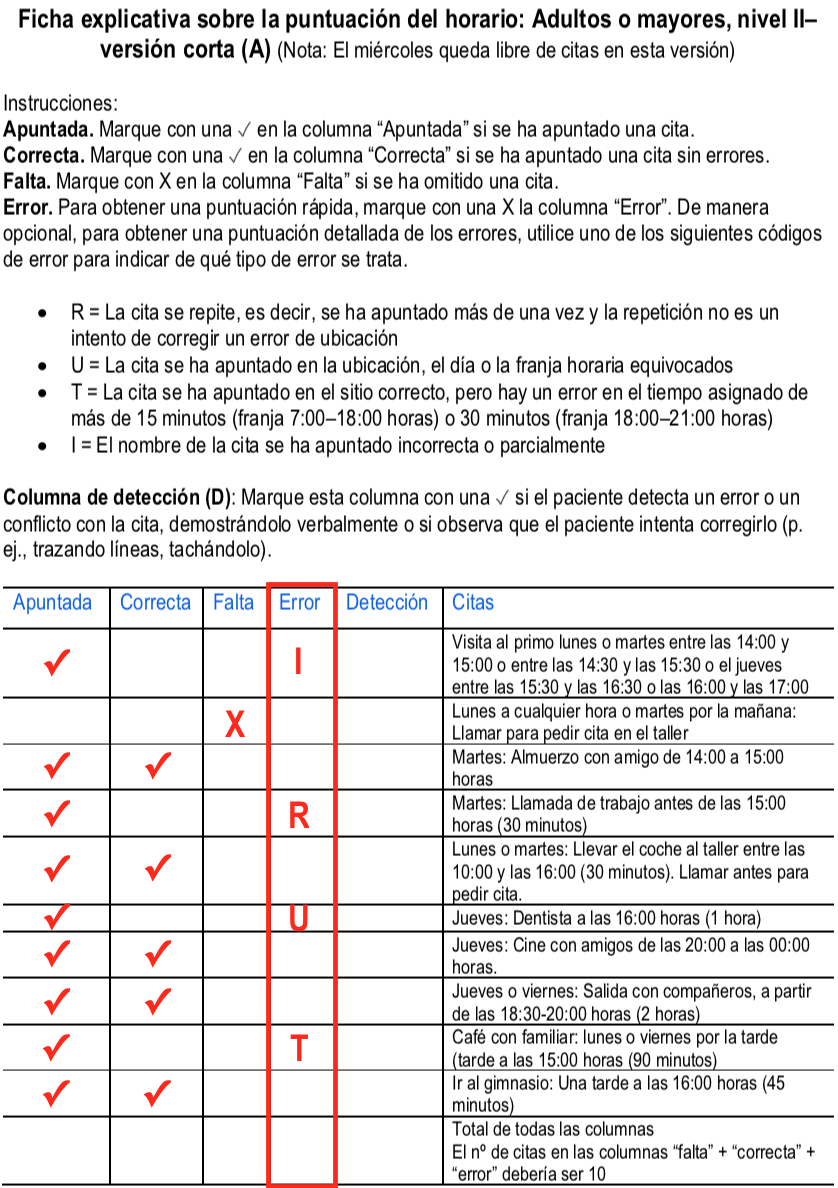
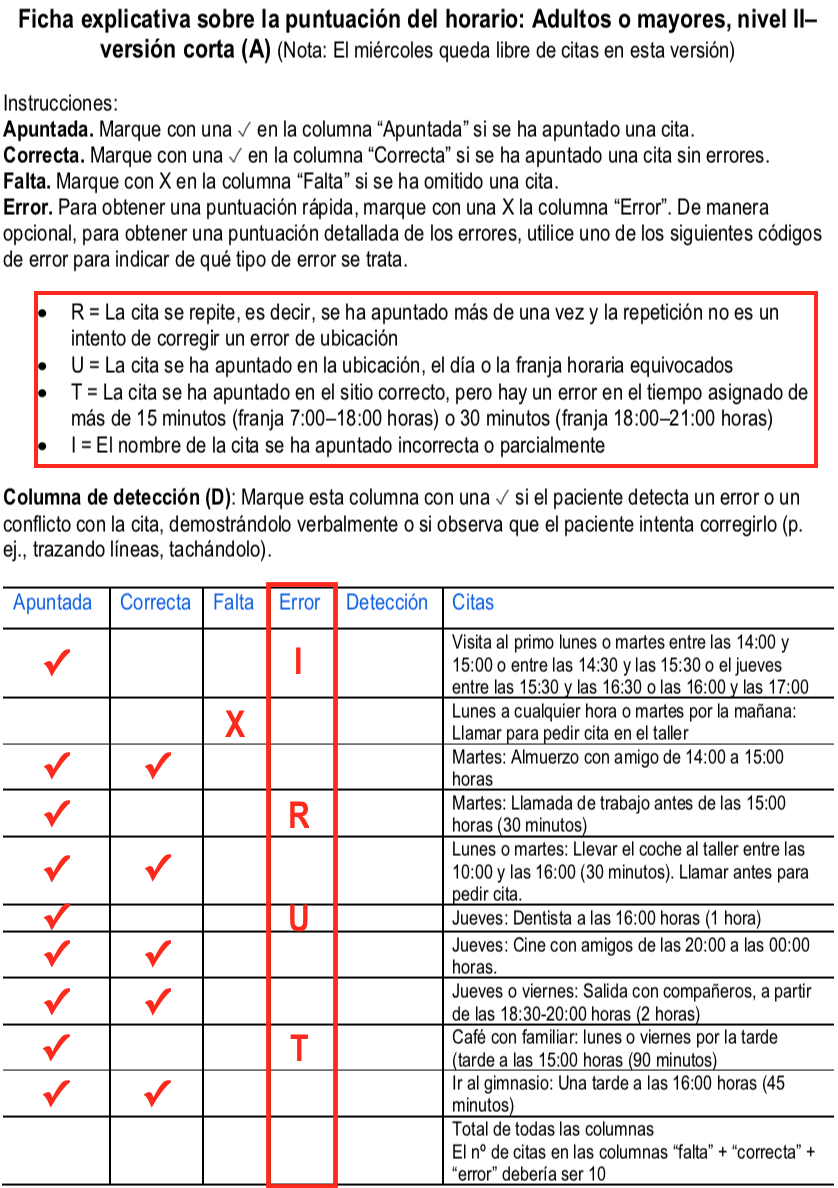
tipo de errores

Changed region(s): [[0.031, 0.2492, 0.9928, 0.4049], [0.0621, 0.218, 0.9618, 0.2492]]

diff --git a/index.html b/index.html
@@ -687,20 +687,32 @@ Sección de comentarios:
 Anote cualquier comentario positivo o negativo que la persona haga sobre su desempeño o la tarea y regístrelos. El examinador también debe observar la eficiencia del uso de la estrategia o cualquier observación adicional.
 
 ---
-background-image: url(https://github.com/danielesnm/cursoWeekly/blob/master/imagenes/Ficha%20puntuacion.png?raw=true), url(https://github.com/danielesnm/cursoWeekly/blob/master/imagenes/Ejemplocalendario.png?raw=true), 
-background-position: 0% 5%, 100% 5%
-background-size: 50%, 50%
-
+background-image:url(https://github.com/danielesnm/cursoWeekly/blob/master/imagenes/Ficha%20puntuacion.png?raw=true)  
+background-position: 85% 100%
+background-size: 41%
 #**Administración**
-&gt;##** 7. Ficha explicativa sobre la puntuación**
-- _**Identificar las citas anotadas y las faltantes**_
+
+.pull-left[&gt;##** 7. Ficha explicativa sobre la puntuación**
+]
+.center-column[a) _**Identificar las citas apuntadas y las faltantes**_
+]
 
 ---
+background-image:url(https://github.com/danielesnm/cursoWeekly/blob/master/imagenes/Ejemploapuntadasnoapuntadas.png?raw=true), url(https://github.com/danielesnm/cursoWeekly/blob/master/imagenes/Ejemplocalendario.png?raw=true)  
+background-position: 90% 95%, 10% 100%
+background-size: 46%, 40%
+#**Paso 1: Id. las citas apuntadas y las faltantes**
 
 ---
-
+background-image:url(https://github.com/danielesnm/cursoWeekly/blob/master/imagenes/ejemplo%20errores.png?raw=true), url(https://github.com/danielesnm/cursoWeekly/blob/master/imagenes/Ejemplocalendario.png?raw=true)  
+background-position: 90% 95%, 10% 100%
+background-size: 46%, 40%
+#**Paso 2: Id. las citas correctas e incorrectas**
 ---
-
+background-image:url(https://github.com/danielesnm/cursoWeekly/blob/master/imagenes/Ejemplotipoerrores.png?raw=true), url(https://github.com/danielesnm/cursoWeekly/blob/master/imagenes/Ejemplocalendario.png?raw=true)  
+background-position: 90% 95%, 10% 100%
+background-size: 46%, 40%
+#**Paso 3: Id. tipo de error**
 ---
     </textarea>
 <style data-target="print-only">@media screen {.remark-slide-container{display:block;}.remark-slide-scaler{box-shadow:none;}}</style>
